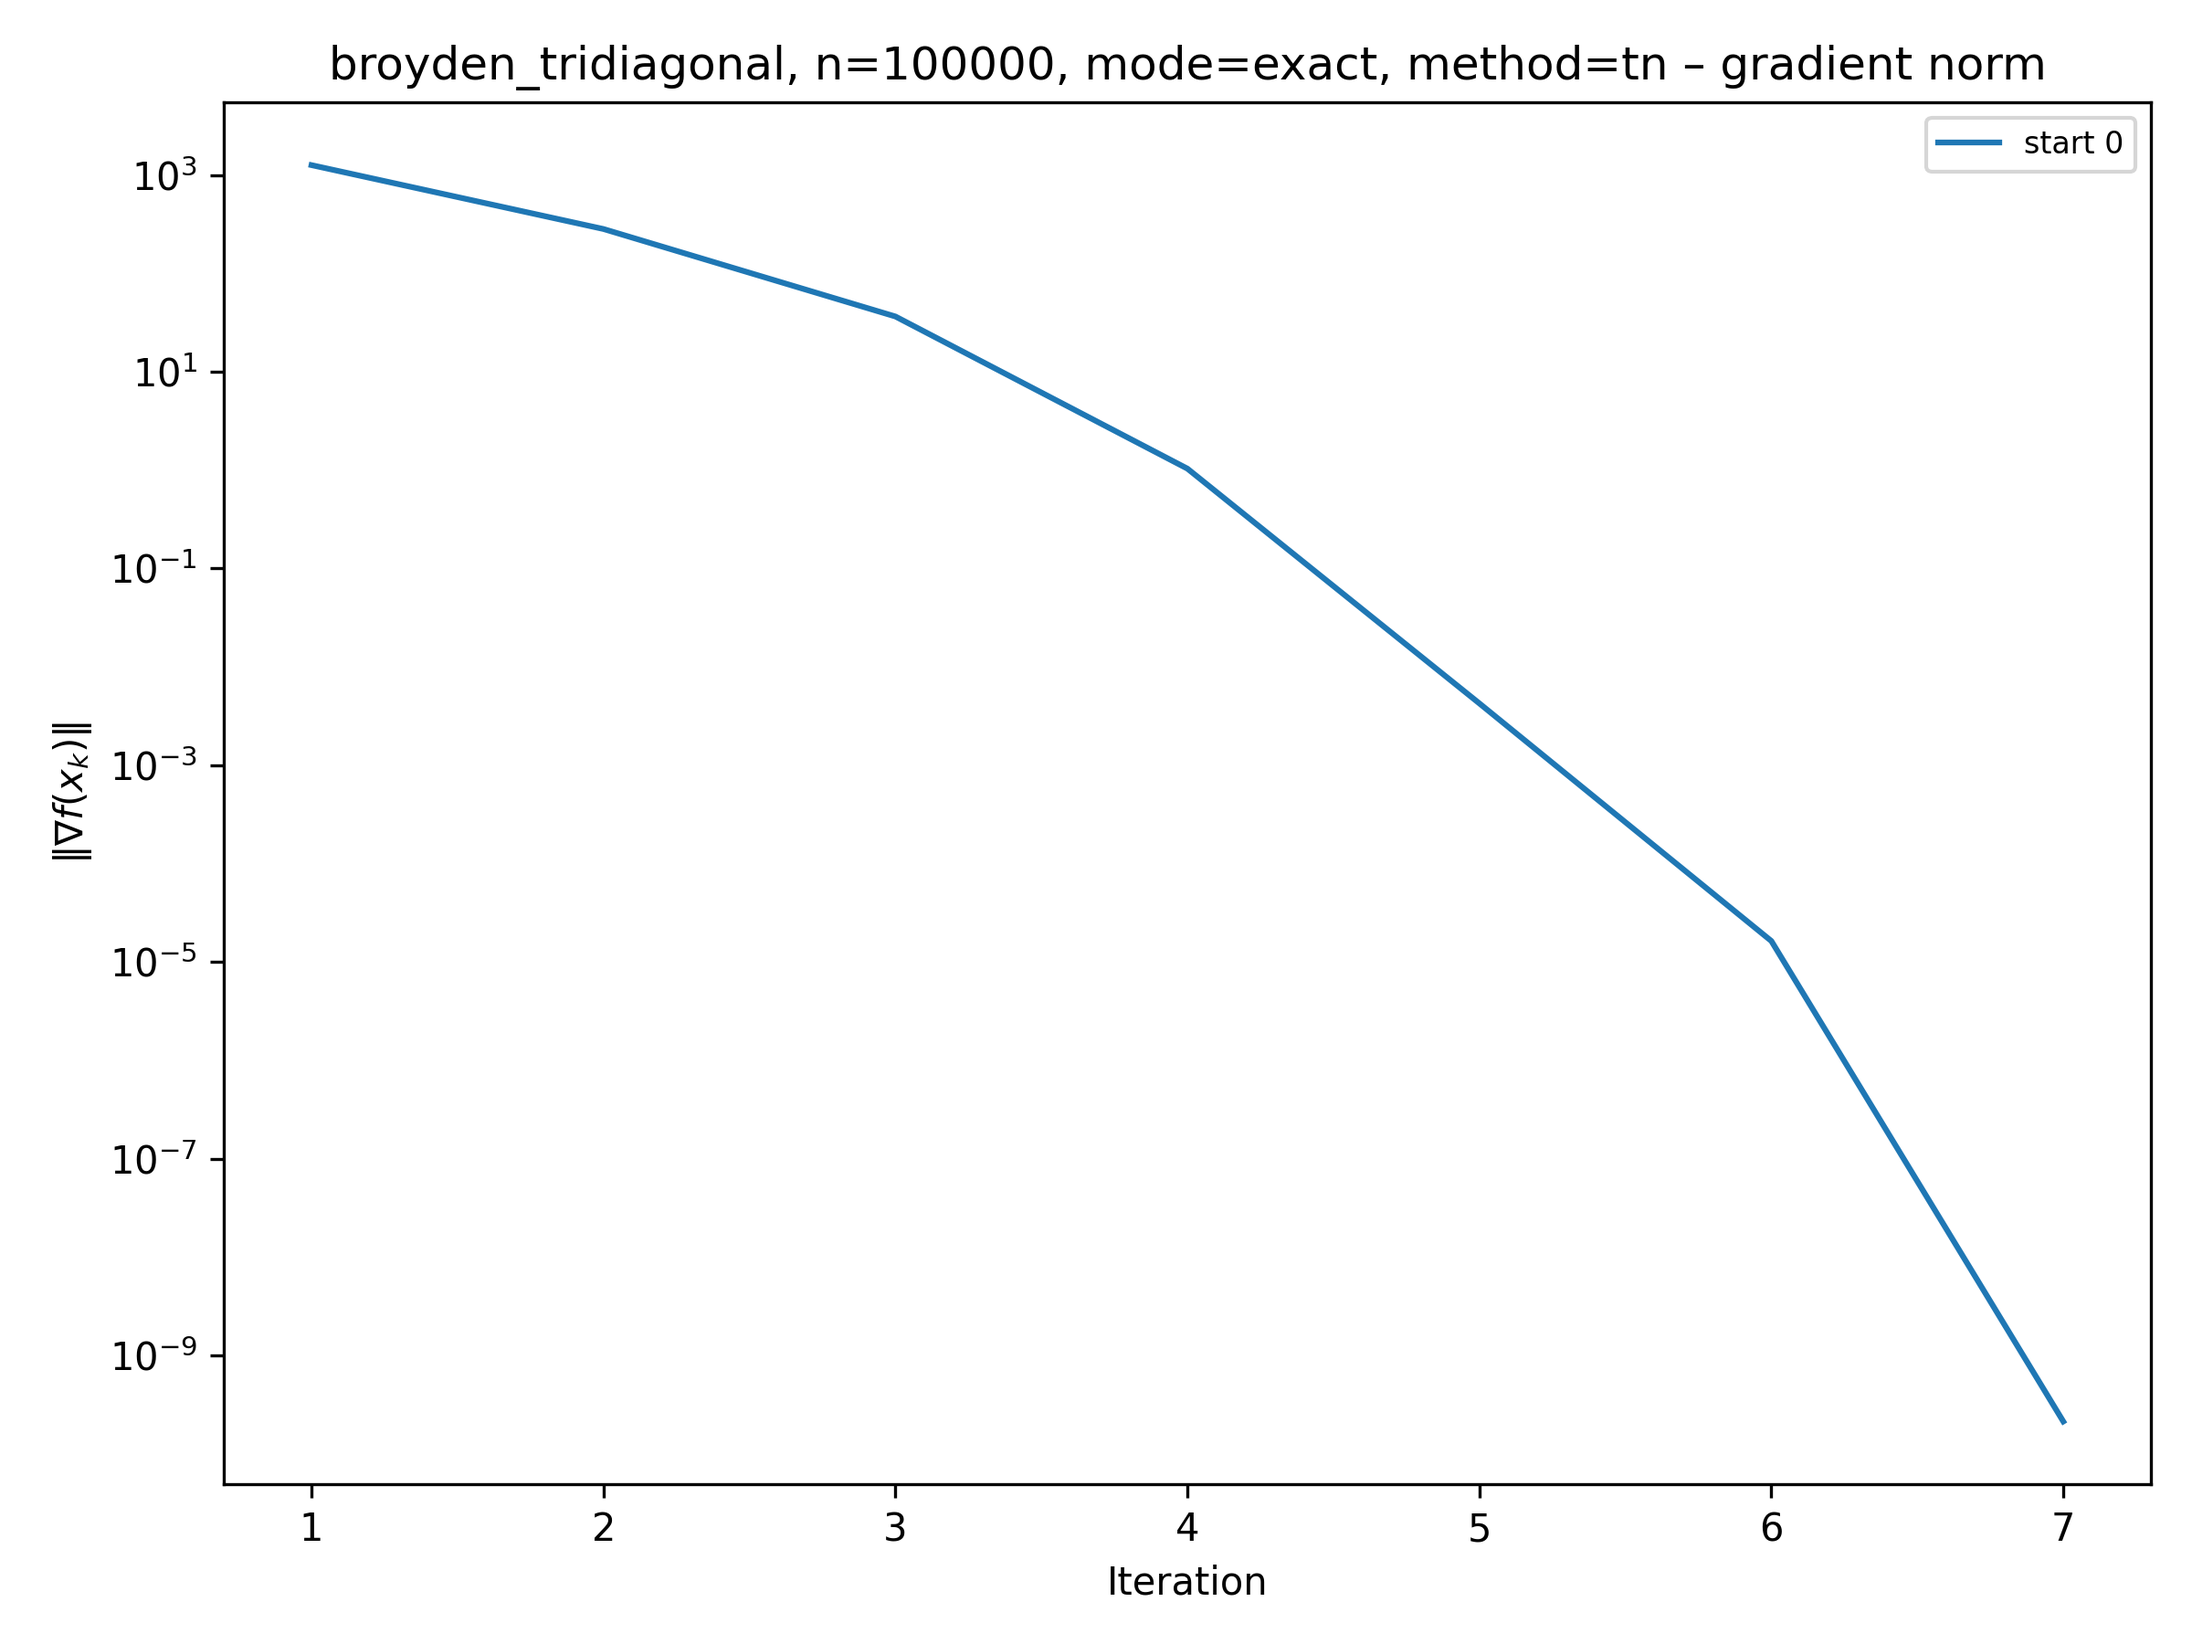
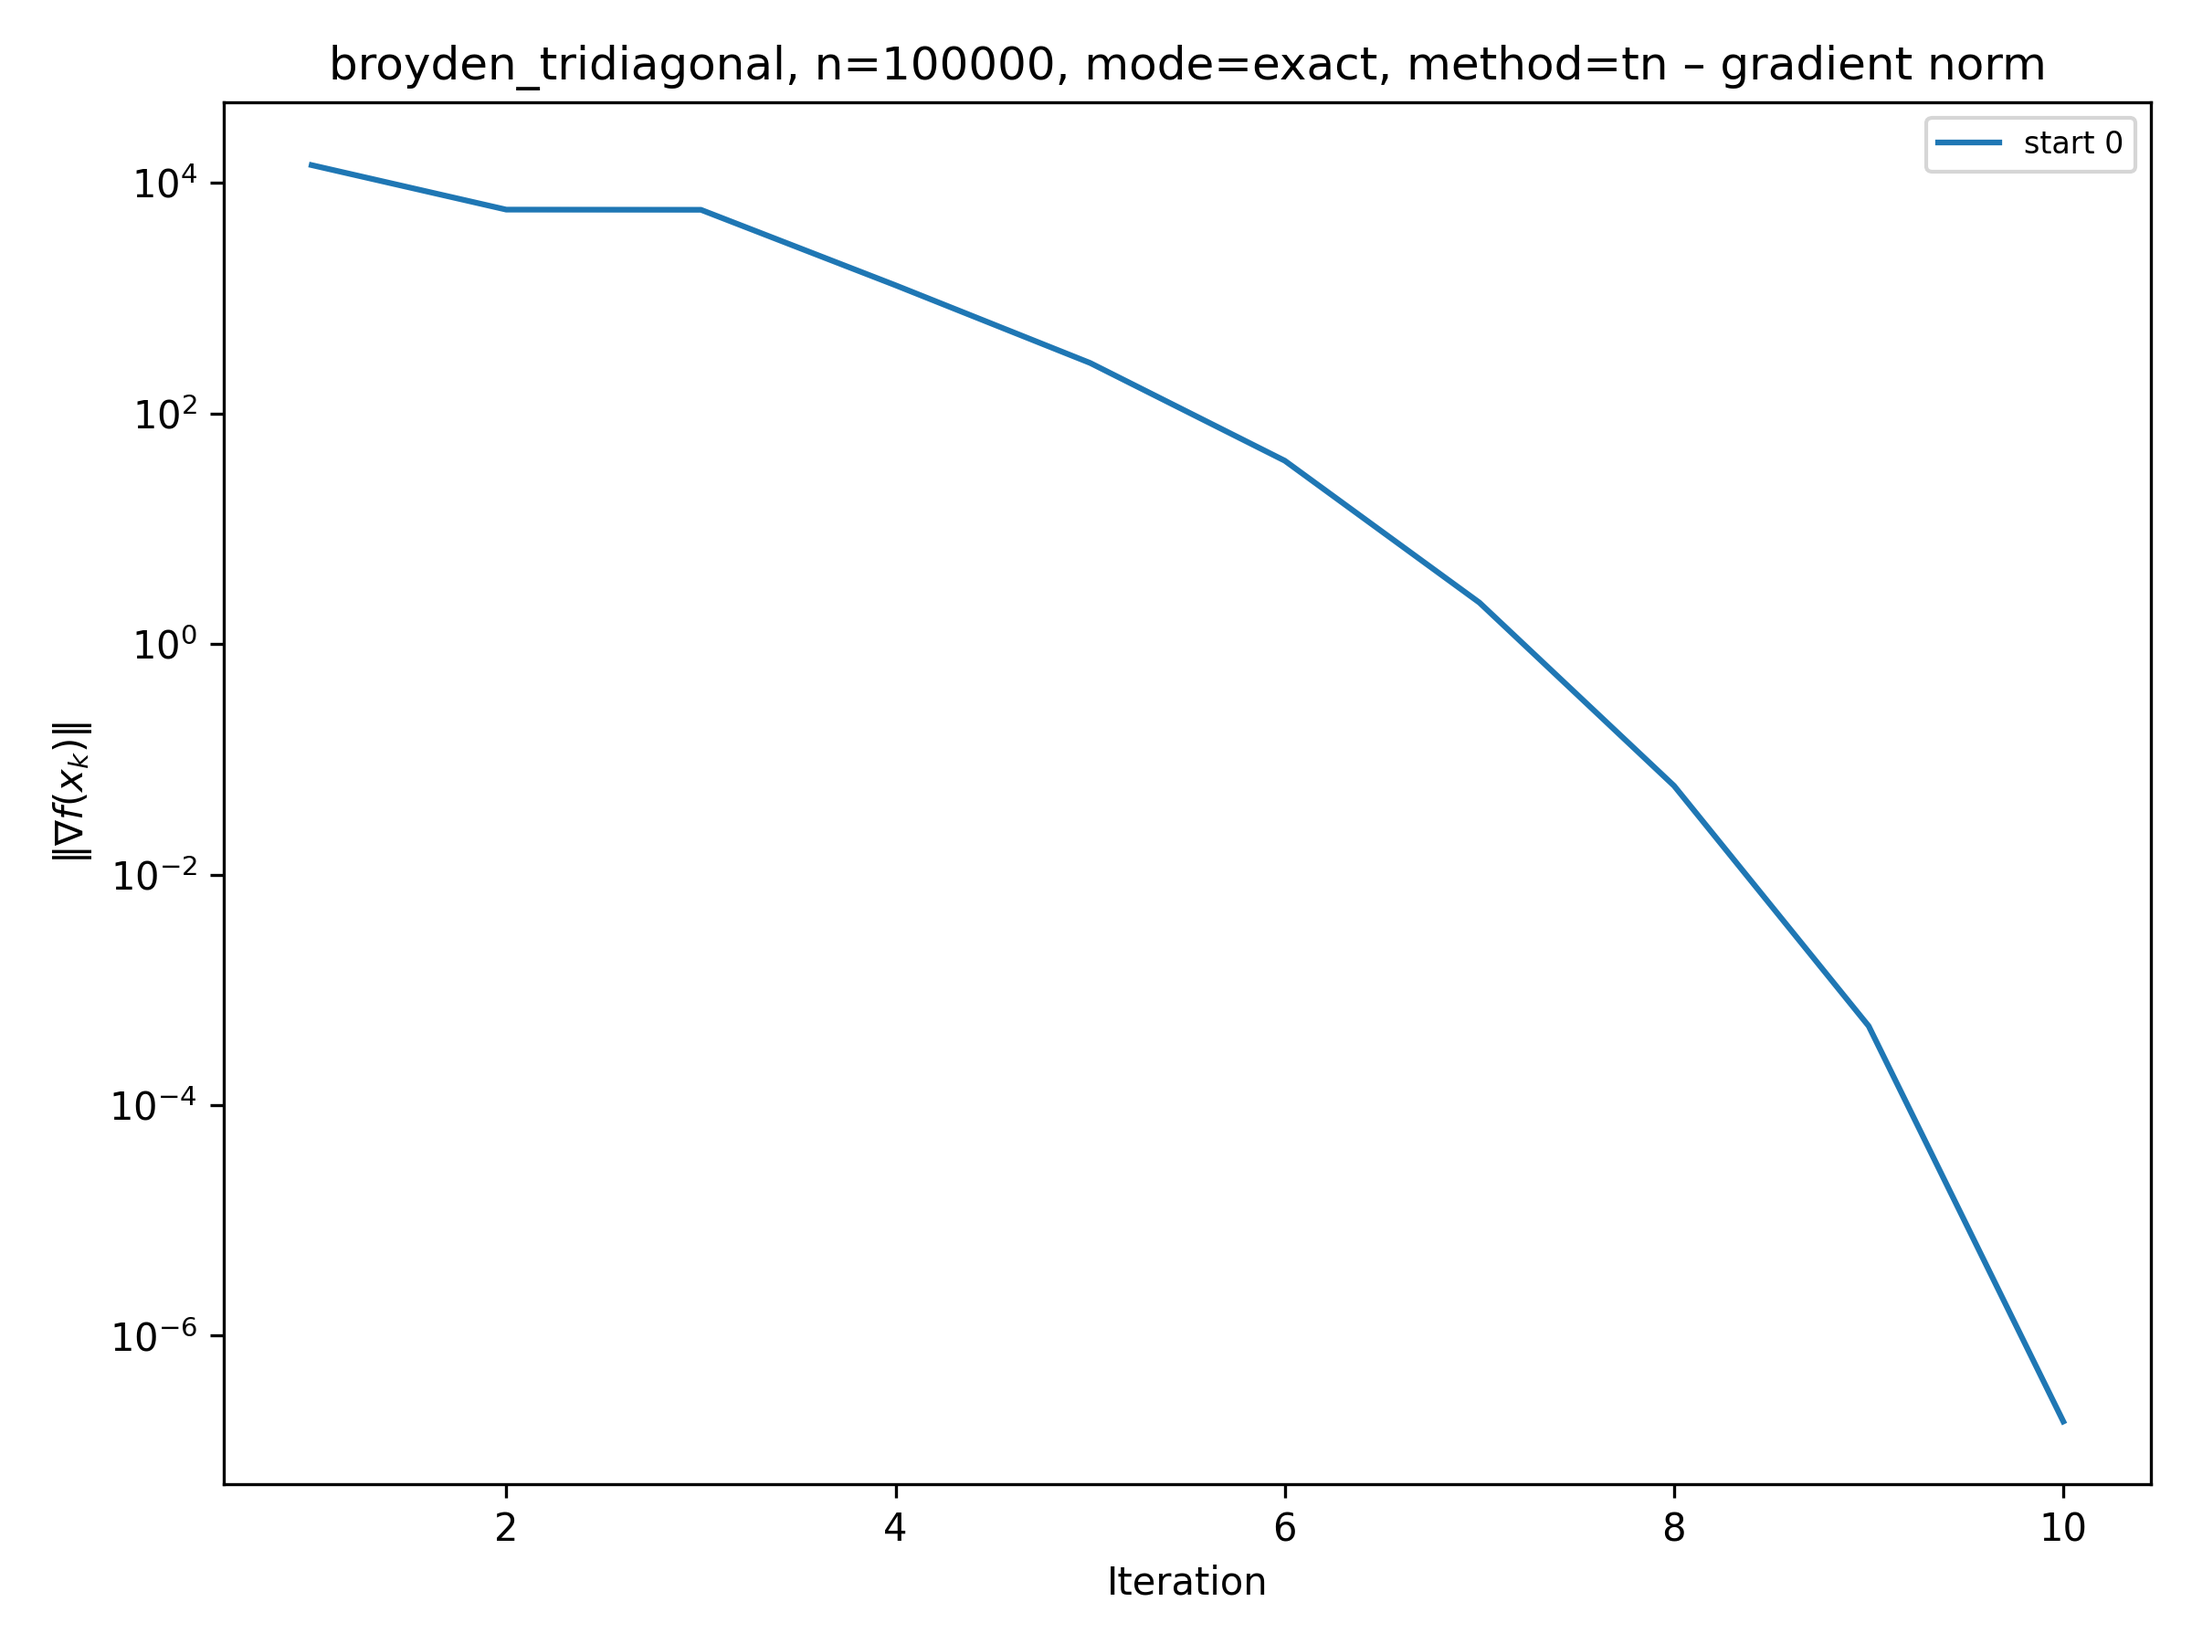
csv and folder fìx

diff --git a/optim/truncated_newton.py b/optim/truncated_newton.py
@@ -47,6 +47,12 @@ def solve_truncated_newton(problem, x0, config, h=None, relative=False):
     cg_max_iters = tn_cfg['cg']['max_iters']
     cg_tol = tn_cfg['cg']['tol']
 
+    spd_cfg = config.get('truncated_newton', {}).get('spd_fix', {})
+    lambda_init = float(spd_cfg.get('lambda_init', 1e-6))
+    lambda_factor = float(spd_cfg.get('lambda_factor', 10.0))
+    lambda_max = float(spd_cfg.get('lambda_max', 1e8))
+    max_restarts = int(spd_cfg.get('max_restarts', 6))
+
     f = problem.f
 
     # --- selezione gradiente e hessvec in base a mode ---
@@ -93,7 +99,7 @@ def solve_truncated_newton(problem, x0, config, h=None, relative=False):
     total_cg_iters = 0
 
     for k in range(1, max_iters + 1):
-        print(k)
+        # print(k)
         g = grad_fn(x)
         f_x = f(x)
         grad_norm = np.linalg.norm(g)
@@ -105,25 +111,57 @@ def solve_truncated_newton(problem, x0, config, h=None, relative=False):
         if grad_norm < float(tol):
             success = True
             break
-
+        # base Hessian-vector product (no damping)
         if mode == 'exact_grad_fd_hessian':
-            Av = lambda d: hessvec_fn(x, g, d)
+            Av_base = lambda d: hessvec_fn(x, g, d)
         else:
-            Av = lambda d: hessvec_fn(x, d) # type: ignore
+            Av_base = lambda d: hessvec_fn(x, d)  # type: ignore
 
-        # conjugate_gradient è già definita nei tuoi helpers
-        p, cg_iter = conjugate_gradient_hess_vect_prod(grad_x0=g,
-                                                       Av=Av,
-                                                       max_iter=cg_max_iters,
-                                                       eta=eta)
-            
-        
+        # ---- Newton-CG with adaptive damping (H + lam I) ----
+        lam = lambda_init
+        p = None
+        cg_iter = 0
+
+        for _ in range(max_restarts + 1):
+            Av = (lambda d, lam=lam: Av_base(d) + lam * d)
+
+            p_try, cg_iter = conjugate_gradient_hess_vect_prod(
+                grad_x0=g,
+                Av=Av,
+                max_iter=cg_max_iters,
+                eta=eta
+            )
+
+            # signals of failure / poor direction
+            pnorm = np.linalg.norm(p_try)
+            descent = np.dot(g, p_try) < 0
+
+            cg_capped = (cg_iter >= cg_max_iters)
+            tiny_step = (pnorm < 1e-16)
+
+            if (not cg_capped) and (not tiny_step) and descent:
+                p = p_try
+                break
+
+            # if not ok -> increase damping
+            lam *= lambda_factor
+            if lam > lambda_max:
+                break
+
+        # fallback if we couldn't get a good Newton-CG direction
+        if p is None:
+            p = -g
+            cg_iter = 0  # optional: don't count CG if fallback
+
         total_cg_iters += cg_iter
 
         if np.linalg.norm(p) < 1e-16:
             success = False
             break
 
+
+        if np.dot(g, p) >= 0:
+            p = -g
         
         alpha = armijo_backtracking(
             f, x, f_x, g, p,
